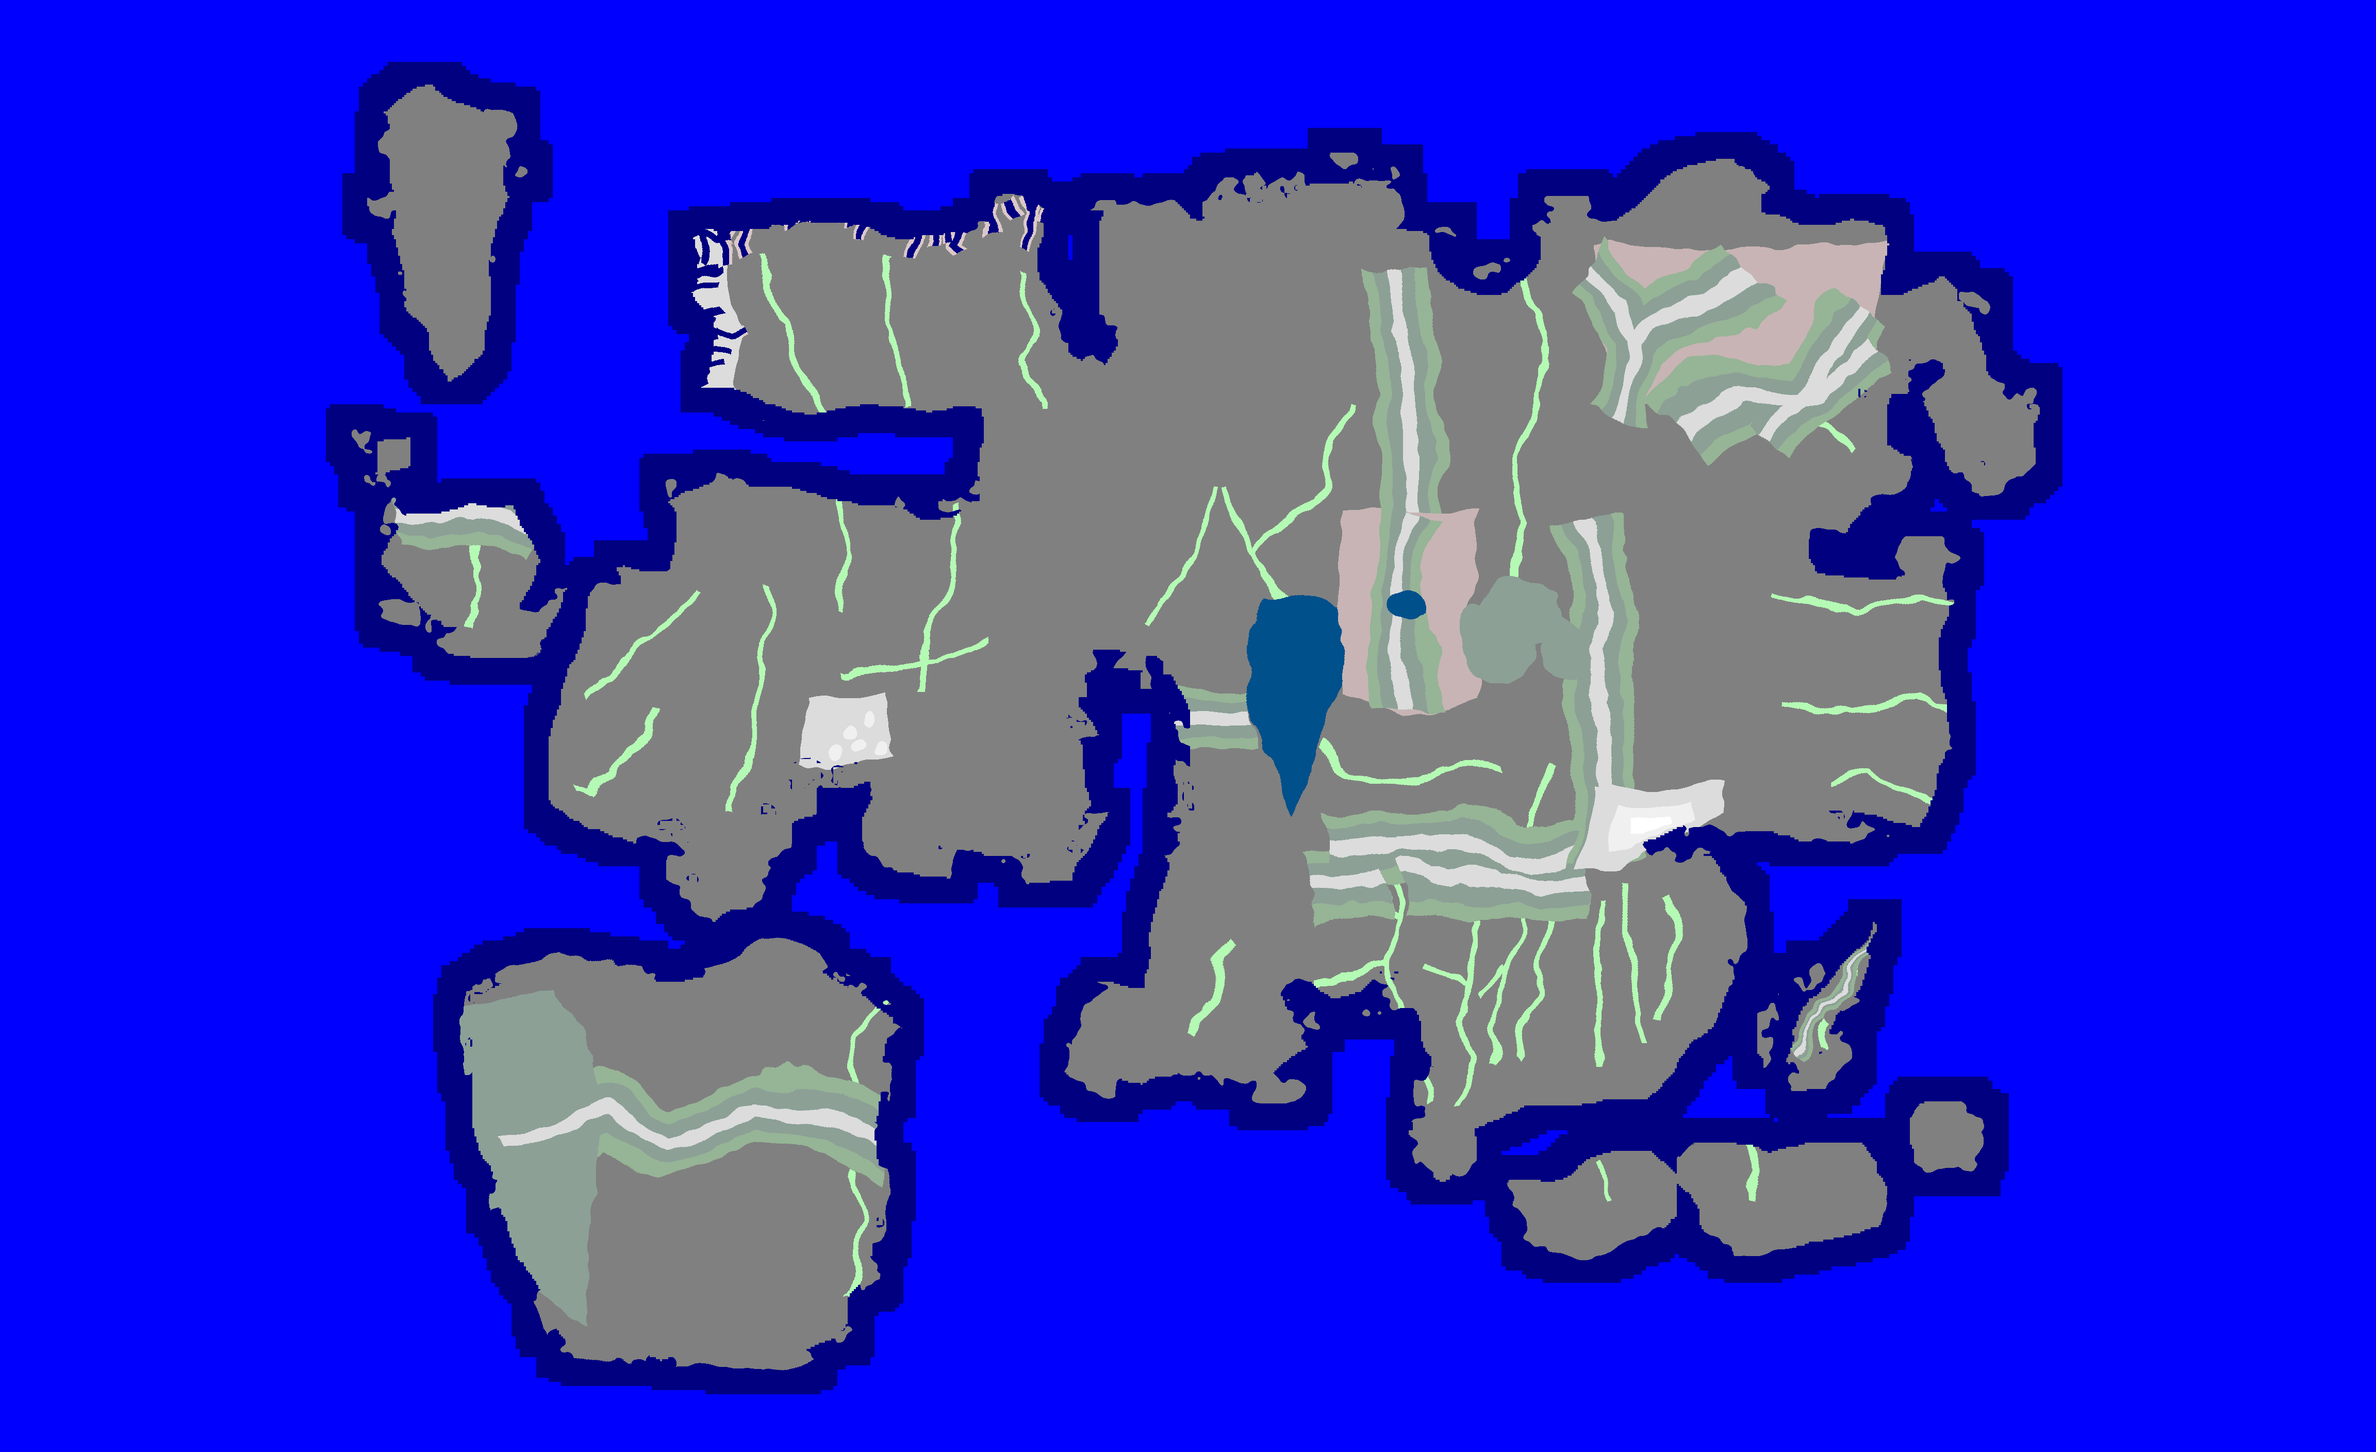
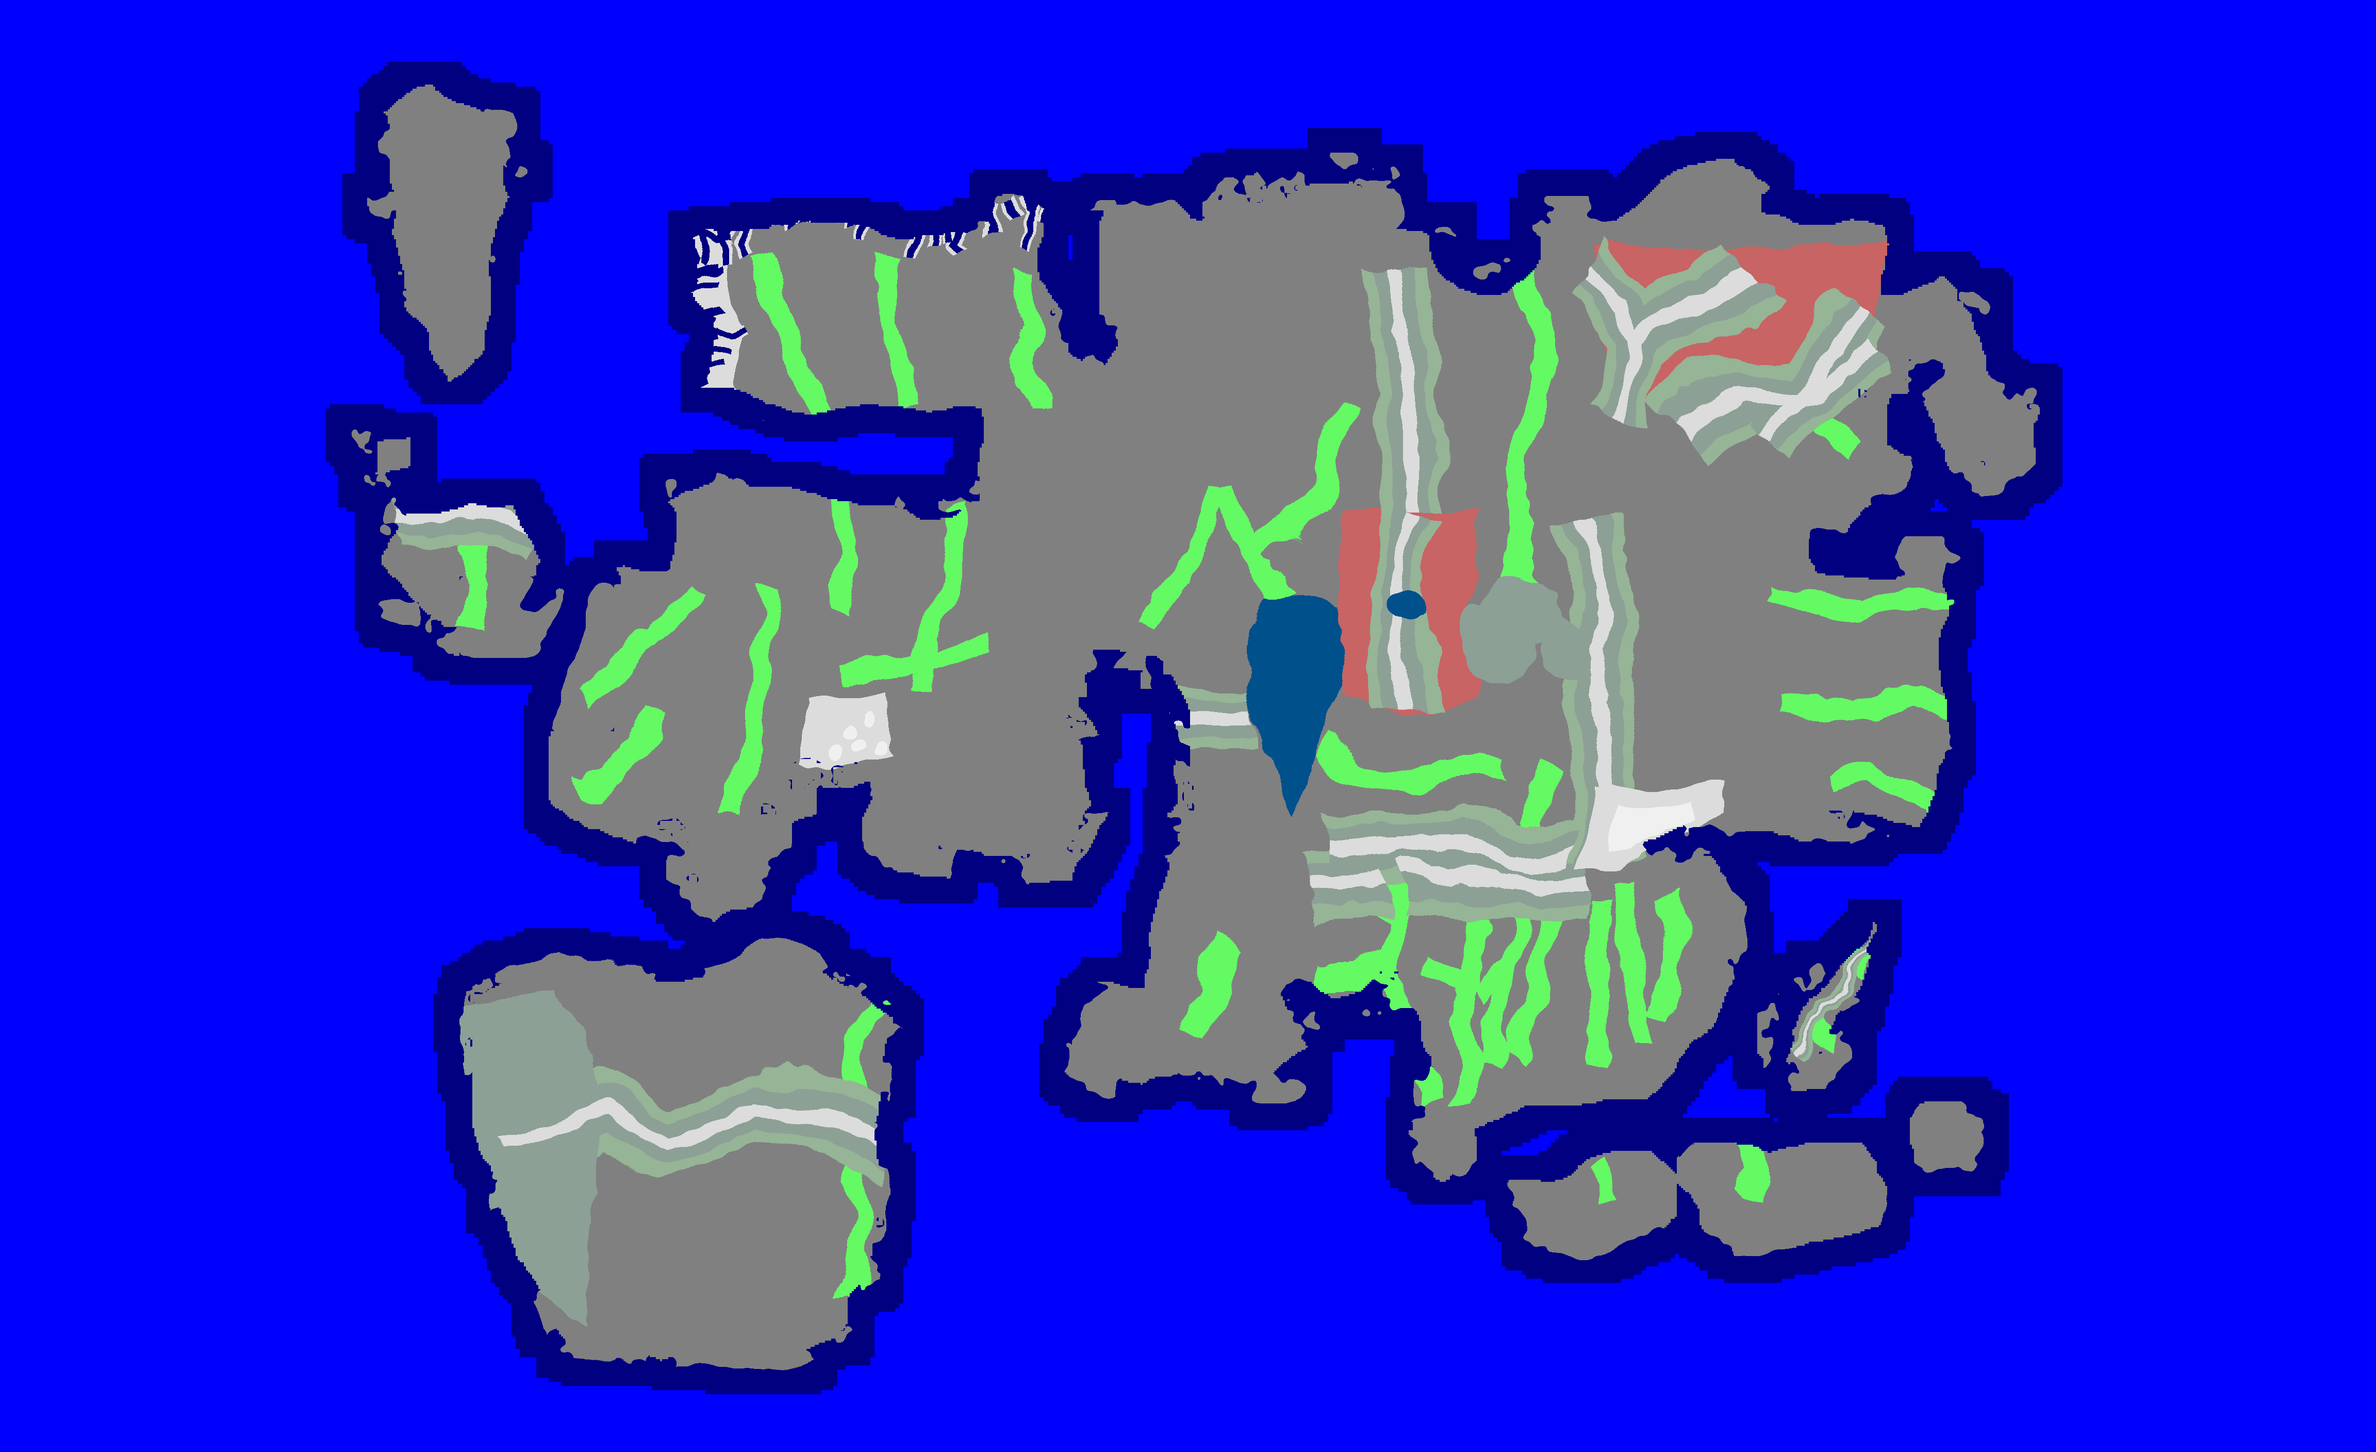
tools: recolor land input so RandomParadox recognises all colors; widen river valleys; smooth coast near the unassigned segment pixel; docs: province settings and what each controls

diff --git a/tools/export_rp_inputs.py b/tools/export_rp_inputs.py
@@ -307,7 +307,7 @@ def stage1():
 
     # --- рельеф
     RL = ridges + SIBERIA_RIDGES + [BRITAIN_RIDGE, FIG_RIDGE]
-    valley = warp(mask(line_mask(rivers, 6))) & land
+    valley = warp(mask(line_mask(rivers, 20))) & land   # долины вдоль рек шире: программа прокладывает реки по низинам
     cliffs = warp(mask(lambda d: [d.line(px(q), fill=255, width=int(14 * SX), joint="curve") for q in FJORDS])) & land
     low = warp(mask(line_mask(RL, 70))) & land
     low |= warp(mask(line_mask([japan_axis()], 12))) & land                   # у Чёрной Республики полосы уже: остаются равнины
@@ -333,9 +333,9 @@ def stage1():
     # цвета, которые программа понимает без ручной разметки (справка Land Input); ocean/deepOcean в программе перепутаны местами
     COL = {
         "deepOcean": (0, 0, 255), "ocean": (0, 0, 128), "lake": (0, 80, 140),
-        "plains": (128, 128, 128), "highlands": (200, 180, 180), "lowhills": (150, 180, 150), "hills": (140, 160, 150),
+        "plains": (128, 128, 128), "highlands": (200, 100, 100), "lowhills": (150, 180, 150), "hills": (140, 160, 150),
         "mountains": (220, 220, 220), "peaks": (240, 240, 240),
-        "steeppeaks": (255, 255, 255), "cliffs": (220, 200, 200), "valley": (180, 250, 180),
+        "steeppeaks": (240, 240, 240), "cliffs": (220, 220, 220), "valley": (100, 250, 100),   # steeppeaks/cliffs в программе нет: цвета peaks/mountains; valley по справке (100,250,100)
     }
     img = np.zeros((H, W, 3), np.uint8)
     img[:] = COL["deepOcean"]
@@ -350,6 +350,18 @@ def stage1():
     img[mount] = COL["mountains"]
     img[peaks] = COL["peaks"]
     img[steep] = COL["steeppeaks"]
+    # сглаживание зубчатого берега около (1041,1268): там программа оставляла 1 пиксель без сегмента
+    y0, y1, x0, x1 = 1118, 1418, 891, 1191
+    sea = (img[..., 2] >= 128) & (img[..., 1] < 100) & (img[..., 0] == 0) & (img[..., 2] != 140)
+    sub = ~sea[y0:y1, x0:x1]
+    for _ in range(3):
+        p = np.pad(sub.astype(np.int32), 4)
+        cnt = sum(p[dy:dy + sub.shape[0], dx:dx + sub.shape[1]] for dy in range(9) for dx in range(9))
+        sub = cnt > 40
+    old = ~sea[y0:y1, x0:x1]
+    box = img[y0:y1, x0:x1]
+    box[sub & ~old] = COL["plains"]
+    box[~sub & old & (box == COL["plains"]).all(-1)] = COL["ocean"]
     jg = warp(mask(poly_mask([FIG_JUNGLE]))) & land
     Image.fromarray((jg * 255).astype(np.uint8)).save(os.path.join(OUT, "stage_01_jungle_mask.png"))
     d = os.path.join(OUT, "stage_01")

diff --git a/docs/10-RP-Tabs-Quick.md b/docs/10-RP-Tabs-Quick.md
@@ -7,18 +7,37 @@
 | Вкладка | Что делать | Файл |
 |---|---|---|
 | Configure | Имя мода `Ktits`, пути, Validate | нет |
-| Land Tabs | Land Input, разметить 3 цвета (180;250;180 valley, 220;200;200 mountains, 255;255;255 peaks), Analyse Input, затем Heightmap: Generate from Landform Input. Проверить, что Фигария и острова не слиплись | `stage_01/land.png` |
+| Land Tabs | Land Input (режим Landform), все 10 цветов распознаются сами, ручная разметка не нужна; Analyse Input, затем Heightmap: Generate from Landform Input. Проверить, что Фигария и острова не слиплись | `stage_01/land.png` |
 | Climate Tabs, Climate Input | Режим «Use Climate Input Map», цвета распознаются сами | `stage_02/climate.png` |
 | Climate Tabs, River | Открыть подвкладку River и перетащить файл. Кнопки Generate не нажимать | `stage_03/rivers.png` |
 | Civilisation | Topography, Development, Population. Culture и Locations загрузить нельзя | `stage_03b/topography.png`, `development.png`, `population.png` |
-| Areas | Provinces и регионы: Generate. Цель около 6 000 провинций суши | нет |
+| Areas | Density: Generate Density from Climate. Segments: Target Land Regions 650, Target Sea Regions 240, Generate Segments. Provinces: Land Factor 8 (не влияет), Sea Factor 0.65, Density Effects 0.55, Min Province Size 355, Max Province Count 20000, Generate Provinces. Результат в таблице ниже | нет |
 | Strategic Regions | Generate | нет |
 | Countries | Режим solid. Сначала `countryMappings.txt`, затем `countries.png`. Затем Generate state data, Generate country data | `stage_04/countryMappings.txt`, `stage_04/countries.png` |
 | Finalise | Export Complete mod | нет |
 
 Проверки:
-- файл принят: нет Unclassified (кроме 3 цветов Land) и ошибок в логе;
+- файл принят: нет Unclassified и ошибок в логе;
 - после Areas: в логе нет «Invalid weighted center», программа не вылетела;
 - после экспорта: папка `...\mod\Ktits` обновилась, в `history\countries` есть CSL, SVS, BRT, FIG, LED.
 
 Названия вкладок и кнопок взяты из скриншотов и справки [uncertain].
+
+Вкладка Areas → Provinces, поля со скрина 11 (10.11.2026):
+
+| Поле | Значение | Влияет на результат |
+|---|---|---|
+| Land Factor | 8.000000 | нет |
+| Sea Factor | 0.650000 | да, определяет море |
+| Density Effects | 0.550000 | нет |
+| Min Province Size | 355 | да, определяет сушу |
+| Max Province Count | 20000 | только как потолок |
+| Current Provinces | 8136 | результат: суша 6 176, море 1 960 |
+
+Результат Areas → Provinces (скрин 11, 10.11.2026): всего 8 136 провинций, Current Provinces 8136; суша 6 176 (около 9,0 на штат при 683 штатах, ваниль 9,5), море 1 960 (ваниль 3 133), медианная сухопутная провинция 633 пикселя. Считалось по `Maps/areas/provinces.png` и `land.png`.
+
+Что влияет на число провинций (проверено прогонами):
+- Min Province Size определяет сушу: «Total desired» обратно пропорционально ему (20 → 214 567, 10 → 428 005, 570 → 10 216, 355 → 13 658). Итог меньше желаемого: программа убирает мелкие провинции.
+- Sea Factor определяет море: 1.0 → около 3 000, 0.65 → 1 960, не зависит от Min Province Size.
+- Land Factor (4, 5, 6, 8) и Density Effects (0.5–0.65) на число не влияют.
+- Если желаемое число больше Max Province Count, программа обрезает итог пропорционально, и море почти исчезает (307 провинций): потолок ставить заведомо выше.

diff --git a/docs/06-RandomParadox-Guide.md b/docs/06-RandomParadox-Guide.md
@@ -60,17 +60,7 @@
 
 1. Вкладка Land → «classify land input» → загрузить картинку.
 2. Назначить каждому цвету тип: океан, глубокий океан, озеро, равнина, низкие холмы, холмы, возвышенность, горы, крутые пики, долины, вершины. После каждого назначения нажимать Apply.
-**Цвета, которые надо разметить вручную (UNCLASSIFIED).** При загрузке `land.png` (13 цветов) программа сама распознаёт 10 (в том числе 200;180;180 как highlands), остальные 3 помечает UNCLASSIFIED. Для каждого: «Select type for …» → выбрать тип → «Apply type for …».
-
-В выпадающем списке только 10 типов: ocean, deepOcean, lake, plains, lowhills, hills, mountains, peaks, valley, highlands. Типов cliffs и steeppeaks в программе нет (скриншот `image copy 11.png`), поэтому эти цвета назначаются ближайшим типам:
-
-| Цвет (R;G;B) | Выбрать тип | Где на карте |
-|---|---|---|
-| 180;250;180 | valley | долины вдоль рек |
-| 220;200;200 | mountains (cliffs в программе нет) | обрывы у фьордов Северной Ассамблеи |
-| 255;255;255 | peaks (steeppeaks в программе нет) | ядро Нагорья Шамбалы |
-
-Распознаются сами: 128;128;128 plains, 200;180;180 highlands, 220;220;220 mountains, 240;240;240 peaks, 150;180;150 lowhills, 140;160;150 hills, 0;80;140 lake, 0;0;128 ocean, 0;0;255 deepOcean. После разметки нажать Analyse Input.
+**Цвета land.png.** Все 10 цветов программа распознаёт сама, ручная разметка не нужна: 128;128;128 plains, 200;100;100 highlands, 150;180;150 lowhills, 140;160;150 hills, 220;220;220 mountains (cliffs), 240;240;240 peaks (steeppeaks), 100;250;100 valley, 0;80;140 lake, 0;0;128 ocean, 0;0;255 deepOcean. Типов cliffs и steeppeaks в программе нет, поэтому им даны цвета mountains и peaks. После загрузки нажать Analyse Input.
 
 3. Analyze input → Generate height map (множитель высоты 1.0–1.25; в видео 1.25).
 
@@ -80,7 +70,7 @@
 2. **Rivers.** Generate. Оставить порядка 300 рек, тысячи нельзя (нагружают игру).
 3. **Forest density.** Обычная плотность. Слишком густой лес выглядит плохо и может ронять игру при приближении.
 4. **Segments.** Generate.
-5. **Provinces.** Generate; следить, чтобы провинций было не больше ~25 000.
+5. **Provinces.** Подобранные настройки: Sea Factor 0.65, Density Effects 0.55, Min Province Size 355, Max Province Count 20000 (Land Factor не влияет). Результат: 8 136 провинций, суша 6 176, море 1 960. Подробности и что на что влияет: `10-RP-Tabs-Quick.md`.
 6. **Continents.** Generate.
 7. **Civilization / scenario.** Население и число городов; множители 1.1 (в видео).
 8. **Strategic regions.** Generate.
